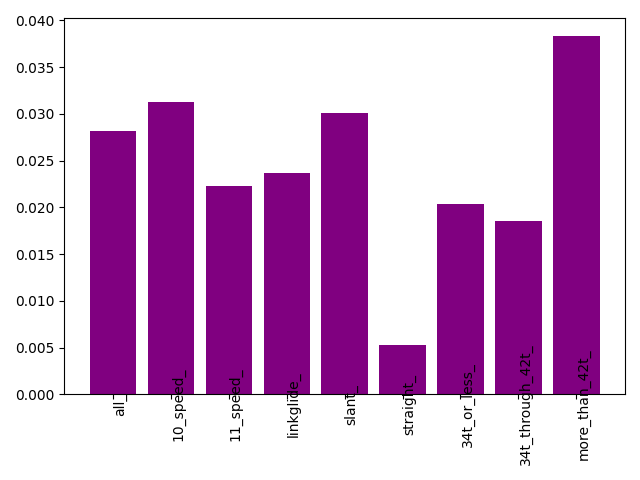
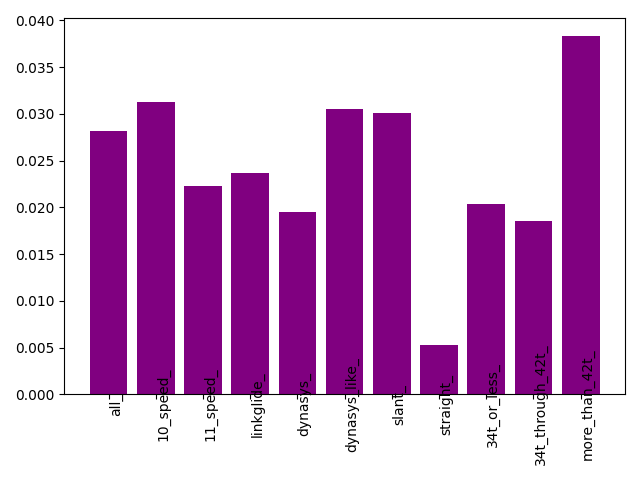
Dynasys and friends

Changed region(s): [[0.1562, 0.0625, 0.9375, 0.9688]]

diff --git a/2-analyze_supported_combos.py b/2-analyze_supported_combos.py
@@ -196,6 +196,8 @@ graph_combos("all_", supported_combos)
 graph_combos("10_speed_", [c for c in supported_combos if c["shifter"]["speeds"] == 10 and "LinkGlide" not in c["cassette"]["name"]])
 graph_combos("11_speed_", [c for c in supported_combos if c["shifter"]["speeds"] == 11 and "LinkGlide" not in c["cassette"]["name"]])
 graph_combos("linkglide_", [c for c in supported_combos if "LinkGlide" in c["cassette"]["name"]])
+graph_combos("dynasys_", [c for c in supported_combos if "Deore" in c["shifter"]["name"] and c["derailleur"]["pullRatio"] < 1.15])
+graph_combos("dynasys_like_", [c for c in supported_combos if c["derailleur"]["pullRatio"] < 1.15])
 graph_combos("slant_", [c for c in supported_combos if c["derailleur"]["parallelogramStyle"] == "slant"])
 graph_combos("straight_", [c for c in supported_combos if c["derailleur"]["parallelogramStyle"] == "straight"])
 graph_combos("34t_or_less_", [c for c in supported_combos if c["derailleur"]["maxTooth"] <= 34])
